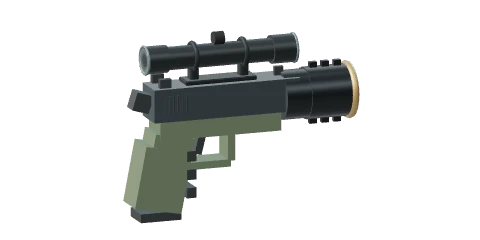
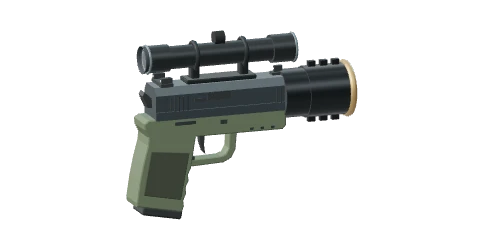
Rebuild the P30 from shaped parts and add a weapon line-up fixture
The pistol was raw boxes. It now has an extruded slide section, one frame
outline with a raked, scalloped grip, an open trigger guard, sights with
dots and a lathe muzzle. Slide bounds, sight heights, sockets and the
magazine node are unchanged. The magazine containment test checks against
the frame outline now that the separate grip box is gone. Armory
thumbnails regenerated.

Changed region(s): [[0.25, 0.1167, 0.75, 0.9333], [0.4375, 0.1167, 0.5625, 0.175]]

diff --git a/src/game/service-weapon-models.ts b/src/game/service-weapon-models.ts
@@ -1,8 +1,11 @@
 import * as THREE from 'three';
+import { RoundedBoxGeometry } from 'three/addons/geometries/RoundedBoxGeometry.js';
+import { mergeStaticParts } from './weapon-part-merge';
 import { buildMachineGun } from './machine-gun-models';
 import { buildProxyWeapon } from './proxy-weapon-models';
 import { buildEnemyWeapon } from './enemy-weapon-models';
 
+type Pt = readonly [number, number];
 /** Authored low-poly silhouettes, not dimensional replicas. Local -Z is forward. */
 export function buildServiceWeapon(id: string): THREE.Group | undefined {
   if (id === 'ff-oicw-launcher') return buildProxyWeapon('ff-oicw', true, 'launcher').root;
@@ -12,39 +15,76 @@ export function buildServiceWeapon(id: string): THREE.Group | undefined {
   const enemy = buildEnemyWeapon(id); if (enemy) return enemy;
   if (id !== 'p30-inspired') return undefined;
   const root = new THREE.Group(); root.name = id;
+  // Material names matter: armory-visuals paints skins onto "Polymer".
   const steel = new THREE.MeshStandardMaterial({ color: '#343d41', roughness: .48, metalness: .65 });
   const polymer = new THREE.MeshStandardMaterial({ color: '#394334', roughness: .85 });
   const dark = new THREE.MeshStandardMaterial({ color: '#141a1c', roughness: .75 });
-  steel.name = 'Metal anodised'; polymer.name = 'Polymer'; dark.name = 'Dark metal';
-  const box = (name: string, w: number, h: number, d: number, x: number, y: number, z: number, material = steel) => {
-    const mesh = new THREE.Mesh(new THREE.BoxGeometry(w, h, d), material);
-    mesh.name = `${id}__${name}`; mesh.position.set(x, y, z); root.add(mesh); return mesh;
+  const texture = new THREE.MeshStandardMaterial({ color: '#232a21', roughness: .96 });
+  const dot = new THREE.MeshStandardMaterial({ color: '#e9ece4', roughness: .6, emissive: '#e9ece4', emissiveIntensity: .35 });
+  steel.name = 'Metal anodised'; polymer.name = 'Polymer'; dark.name = 'Dark metal'; texture.name = 'Grip texture'; dot.name = 'Sight dot';
+  const mesh = (name: string, geometry: THREE.BufferGeometry, material: THREE.Material, x: number, y: number, z: number, parent: THREE.Object3D = root) => {
+    const part = new THREE.Mesh(geometry, material); part.name = `${id}__${name}`; part.position.set(x, y, z); parent.add(part); return part;
   };
-  const barrel = (name: string, radius: number, length: number, y: number, z: number) => {
-    const mesh = new THREE.Mesh(new THREE.CylinderGeometry(radius, radius, length, 12), steel);
-    mesh.rotation.x = Math.PI / 2; mesh.position.set(0, y, z); mesh.name = `${id}__${name}`; root.add(mesh);
+  const box = (name: string, w: number, h: number, d: number, x: number, y: number, z: number, material: THREE.Material = steel, parent: THREE.Object3D = root) =>
+    mesh(name, new RoundedBoxGeometry(w, h, d, 1, Math.min(.0015, w / 5, h / 5, d / 5)), material, x, y, z, parent);
+  /**
+   * A side profile, given as [z, y] points, extruded across the gun with rounded edges that
+   * stand half of `round` outside the points. A hole is a real opening. (A negative
+   * bevelOffset would hold the outline to the points, but ExtrudeGeometry then caps over holes.)
+   */
+  const side = (name: string, points: readonly Pt[], width: number, material: THREE.Material, hole?: readonly Pt[], round = Math.min(.004, width / 6)) => {
+    const shape = new THREE.Shape(points.map(([z, y]) => new THREE.Vector2(z, y))); shape.closePath();
+    if (hole) { const path = new THREE.Path(hole.map(([z, y]) => new THREE.Vector2(z, y))); path.closePath(); shape.holes.push(path); }
+    const depth = width - round * 2;
+    const geometry = new THREE.ExtrudeGeometry(shape, { depth, bevelEnabled: true, bevelSize: round * .5, bevelThickness: round, bevelSegments: 2, steps: 1 });
+    geometry.rotateY(-Math.PI / 2); geometry.translate(depth / 2, 0, 0);
+    // Extrusions are mapped in metres; a skin's pattern is drawn for a part-sized square.
+    const uv = geometry.attributes.uv; for (let i = 0; i < uv.count; i++) uv.setXY(i, uv.getX(i) * 5, uv.getY(i) * 5);
+    return mesh(name, geometry, material, 0, 0, 0);
   };
   const socket = (name: string, x: number, y: number, z: number) => {
     const node = new THREE.Object3D(); node.name = `${id}__socket_${name}`; node.position.set(x, y, z); root.add(node);
   };
-  if (id === 'p30-inspired') {
-    box('slide', .047, .045, .205, 0, .202, -.015);
-    box('frame', .045, .027, .17, 0, .168, -.006, polymer);
-    box('grip', .044, .103, .056, 0, .108, .067, polymer).rotation.x = -.19;
-    box('hammer', .021, .025, .024, 0, .205, .099, dark).rotation.x = -.3;
-    box('backstrap', .047, .085, .018, 0, .105, .098, polymer).rotation.x = -.19;
-    for (let i = 0; i < 3; i++) box('grip-groove', .046, .014, .013, 0, .08 + i * .025, .035, dark);
-    // Base plate and a steel body hidden up the grip, on the grip's rake, so what leaves the well is a whole magazine.
-    const magazine = box('magazine', .041, .012, .057, 0, .05, .077, dark); magazine.rotation.x = -.19;
-    const magazineBody = box('magazine-body', .03, .104, .044, 0, .058, 0); magazine.add(magazineBody);
-    box('guard-bottom', .035, .01, .064, 0, .115, .01, polymer);
-    box('guard-front', .035, .038, .01, 0, .137, -.023, polymer);
-    box('trigger', .012, .026, .01, 0, .14, .017, dark).rotation.x = -.25;
-    for (const x of [-.015, .015]) box('rear-sight', .008, .012, .016, x, .231, .07, dark);
-    box('front-sight', .006, .012, .012, 0, .231, -.095, dark);
-    for (let i = 0; i < 6; i++) box('slide-serration', .049, .024, .002, 0, .203, .042 + i * .006, dark);
-    barrel('muzzle', .012, .012, .197, -.123);
-    socket('muzzle', 0, .197, -.13); socket('eject', .03, .214, -.007);
+  // The slide, its serrations and both sights travel together when it is racked;
+  // the hand clasps the slide by its bounds, so its width and top stay where they are.
+  const section = new THREE.Shape([[-.0235, -.0225], [.0235, -.0225], [.0235, -.011], [.0231, -.0105], [.0231, .012], [.0165, .0225], [-.0165, .0225], [-.0231, .012], [-.0231, -.0105], [-.0235, -.011]].map(([x, y]) => new THREE.Vector2(x, y)));
+  const slideGeometry = new THREE.ExtrudeGeometry(section, { depth: .205, bevelEnabled: false, steps: 1 }); slideGeometry.translate(0, 0, -.1025);
+  const slide = mesh('slide', slideGeometry, steel, 0, .202, -.015);
+  box('ejection-port', .0006, .0105, .034, .0232, .0062, .012, dark, slide);
+  box('extractor', .0005, .004, .016, .02325, .002, .039, dark, slide);
+  for (let i = 0; i < 6; i++) box('slide-serration', .0472, .02, .002, 0, .201, .042 + i * .006, dark);
+  for (let i = 0; i < 4; i++) box('slide-serration', .0472, .02, .002, 0, .201, -.086 - i * .006, dark);
+  box('rear-sight', .04, .005, .018, 0, .227, .07, dark);
+  for (const x of [-.015, .015]) {
+    const post = box('rear-sight', .008, .012, .016, x, .231, .07, dark);
+    mesh('sight-dot', new THREE.CircleGeometry(.0018, 10), dot, 0, .002, .0081, post);
   }
+  box('front-sight', .012, .004, .02, 0, .2265, -.095, dark);
+  mesh('sight-dot', new THREE.CircleGeometry(.0018, 10), dot, 0, .002, .0061, box('front-sight', .006, .012, .012, 0, .231, -.095, dark));
+  // Annular muzzle with a recessed bore, standing just proud of the slide's face.
+  const muzzle = mesh('muzzle', new THREE.LatheGeometry([[.0055, -.007], [.011, -.007], [.012, -.006], [.012, .007], [.0055, .007], [.0055, -.007]].map(([r, v]) => new THREE.Vector2(r, v)), 20), steel, 0, .197, -.1225);
+  muzzle.rotation.x = Math.PI / 2;
+  mesh('bore', new THREE.CircleGeometry(.0055, 16), dark, 0, .197, -.119).rotation.y = Math.PI;
+
+  // One outline for frame, dust cover, beavertail and raked grip, with finger
+  // scallops down the front strap and a palm swell behind.
+  const strap = (y: number) => .030 + (.153 - y) * .193;
+  side('frame', [[-.098, .1795], [.097, .1795], [.102, .176], [.1015, .169], [.096, .158], [.097, .146], [.1035, .122], [.1085, .098], [.113, .068], [.1125, .0635],
+    [.0505, .0515], [strap(.058), .058], [strap(.066) + .0025, .066], [strap(.075), .075], [strap(.084) + .0025, .084], [strap(.093), .093], [strap(.101) + .0025, .101], [strap(.110), .110],
+    [.031, .1545], [-.094, .1545], [-.098, .1585]], .044, polymer);
+  side('grip-panel', [[.052, .068], [.104, .078], [.093, .137], [.040, .131]], .0452, texture);
+  side('trigger-guard', [[-.030, .156], [-.032, .150], [-.030, .128], [-.024, .117], [-.014, .112], [.030, .110], [.040, .113], [.040, .156]], .02, polymer,
+    [[-.024, .152], [-.023, .130], [-.018, .121], [-.010, .118], [.028, .117], [.034, .120], [.030, .152]]);
+  side('trigger', [[.012, .153], [.019, .153], [.0175, .140], [.0135, .128], [.0105, .124], [.0125, .136], [.0115, .146]], .009, dark, undefined, .001);
+  side('hammer', [[.088, .195], [.094, .196], [.101, .212], [.0985, .2165], [.094, .213], [.089, .208]], .016, dark, undefined, .0015);
+  box('slide-release', .0465, .005, .03, 0, .1735, .045, dark);
+  box('takedown-lever', .0465, .006, .01, 0, .171, -.01, dark);
+  box('magazine-release', .026, .005, .012, 0, .121, .034, dark);
+  for (const z of [-.05, -.065, -.08]) box('rail-slot', .0455, .004, .005, 0, .1575, z, dark);
+  // Base plate and a steel body hidden up the grip, on the grip's rake, so what leaves the well is a whole magazine.
+  const magazine = mesh('magazine', new RoundedBoxGeometry(.041, .012, .057, 2, .003), dark, 0, .05, .077); magazine.rotation.x = -.19;
+  mesh('magazine-body', new THREE.BoxGeometry(.03, .104, .044), steel, 0, .058, 0, magazine);
+  mergeStaticParts(root);
+  socket('muzzle', 0, .197, -.13); socket('eject', .03, .214, -.007);
   return root;
 }

diff --git a/scripts/fixtures/weapon-lineup.html b/scripts/fixtures/weapon-lineup.html
@@ -1,0 +1,46 @@
+<!doctype html><html><head><meta charset="utf-8"><title>Weapon line-up</title><style>
+body{margin:0;background:#8a959b;color:#10161a;font:13px system-ui}canvas{display:block}.labels{position:absolute;top:0;left:0;width:100vw;height:75vw;pointer-events:none;display:grid;grid-template-columns:repeat(var(--cols),1fr);grid-template-rows:repeat(var(--rows),1fr)}.labels span{align-self:start;padding:8px 12px;font-weight:600}.labels em{display:block;font-style:normal;font-weight:400}
+</style></head><body><div class="labels" id="labels"></div><script type="module">
+// Every playable platform, dressed as issued, for model review.
+// ?page=N (four platforms a page) · ?only=<index> for one platform at six angles, &view=0..7 for one of them large · ?flat=1 for a grey clay pass.
+import * as THREE from '/node_modules/three/build/three.module.js';
+import { GLTFLoader } from '/node_modules/three/examples/jsm/loaders/GLTFLoader.js';
+import { buildServiceWeapon } from '/src/game/service-weapon-models.ts';
+import { dressWeapon } from '/src/game/armory-visuals.ts';
+import { createProfile, resolveLoadout } from '/src/game/armory-state.ts';
+import { FPS_WEAPONS } from '/src/game/fps-rules.ts';
+const query = new URLSearchParams(location.search), only = query.get('only'), page = Number(query.get('page') ?? 0), flat = query.has('flat');
+const loadout = resolveLoadout(createProfile()), loader = new GLTFLoader();
+const indices = only !== null ? [Number(only)] : FPS_WEAPONS.map((_, i) => i).slice(page * 4, page * 4 + 4);
+const single = query.get('view'), all = [[0, .12], [Math.PI, .12], [-.75, .3], [-2.35, .3], [-Math.PI / 2, .1], [0, 1.45], [2.2, .25], [1.57, .12]];
+const views = single !== null ? [all[Number(single)]] : only !== null ? all.slice(0, 6) : [[0, .12], [-.8, .3]];
+const cols = single !== null ? 1 : 2, rows = single !== null ? 1 : only !== null ? 3 : indices.length;
+const renderer = new THREE.WebGLRenderer({ antialias: true, preserveDrawingBuffer: true }); const W = Number(query.get('w') ?? 1600), H = Number(query.get('h') ?? 1200); renderer.setSize(W, H, false); renderer.setPixelRatio(1); renderer.domElement.style.cssText = 'width:100vw;height:75vw';
+renderer.setClearColor('#8a959b'); renderer.outputColorSpace = THREE.SRGBColorSpace; document.body.append(renderer.domElement);
+const w = W / cols, h = H / rows, cells = [], stats = [];
+const clay = new THREE.MeshStandardMaterial({ color: '#b9bbb8', roughness: .7 });
+for (const index of indices) {
+  const spec = FPS_WEAPONS[index];
+  const model = index < 2 ? (await loader.loadAsync(`/models/field-kit/${spec.id}.glb`)).scene : buildServiceWeapon(spec.id);
+  if (!model) continue;
+  if (loadout.weapons[index]) dressWeapon(model, loadout.weapons[index]);
+  let meshes = 0, triangles = 0; const materials = new Set(), geometries = new Set();
+  model.traverse(o => { if (o.isMesh && o.visible) { meshes++; geometries.add(o.geometry); (Array.isArray(o.material) ? o.material : [o.material]).forEach(m => materials.add(m)); triangles += (o.geometry.index ? o.geometry.index.count : o.geometry.attributes.position.count) / 3; if (flat) o.material = clay; } });
+  const scene = new THREE.Scene(); scene.add(model, new THREE.HemisphereLight('#e8f2ff', '#5b6150', 2.2));
+  const key = new THREE.DirectionalLight('#fff3e0', 3); key.position.set(2, 3, 1.5); scene.add(key);
+  const rim = new THREE.DirectionalLight('#a9c4e8', 1.6); rim.position.set(-2, 1, -2); scene.add(rim);
+  const bounds = new THREE.Box3().setFromObject(model), centre = bounds.getCenter(new THREE.Vector3()), size = bounds.getSize(new THREE.Vector3());
+  const stat = { index, id: spec.id, name: spec.name, meshes, triangles: Math.round(triangles), materials: materials.size, geometries: geometries.size, length: +size.z.toFixed(3), height: +size.y.toFixed(3), width: +size.x.toFixed(3) };
+  stats.push(stat);
+  for (const [yaw, pitch] of views) {
+    const camera = new THREE.PerspectiveCamera(24, w / h, .01, 20), far = Math.max(size.z, size.y * 1.6) * 1.25 / (2 * Math.tan(12 * Math.PI / 180)) / Math.min(1, w / h / 1.2) * (single !== null ? .42 : only !== null ? .62 : .5) + .2;
+    camera.position.set(centre.x + Math.cos(yaw) * Math.cos(pitch) * far, centre.y + Math.sin(pitch) * far, centre.z + Math.sin(yaw) * Math.cos(pitch) * far); camera.lookAt(centre);
+    cells.push({ scene, camera });
+    document.getElementById('labels').insertAdjacentHTML('beforeend', `<span>${index} · ${spec.name}<em>${meshes} meshes · ${stat.triangles} tris · ${materials.size} mats · ${stat.length} m</em></span>`);
+  }
+}
+document.body.style.setProperty('--cols', cols); document.body.style.setProperty('--rows', rows);
+renderer.setScissorTest(true);
+const draw = () => { cells.forEach(({ scene, camera }, i) => { const x = (i % cols) * w, y = (rows - 1 - Math.floor(i / cols)) * h; renderer.setViewport(x, y, w, h); renderer.setScissor(x, y, w, h); renderer.render(scene, camera); }); requestAnimationFrame(draw); };
+draw(); window.stats = stats; window.ready = true;
+</script></body></html>

diff --git a/src/game/fps-pistol-reload.test.ts b/src/game/fps-pistol-reload.test.ts
@@ -149,15 +149,18 @@ describe('flicking the spent magazine out one-handed', () => {
   it('throws a whole magazine, hidden inside the grip while seated', () => {
     const f = viewed(); f.at(0);
     expect(new THREE.Box3().setFromObject(f.magazine).getSize(new THREE.Vector3()).y).toBeGreaterThan(.1);
-    const body = f.model.getObjectByName(`${spec.id}__magazine-body`) as THREE.Mesh, grip = f.model.getObjectByName(`${spec.id}__grip`)!;
+    // Seen from the side, every corner of the body is behind the frame's outline or the base plate.
+    const body = f.model.getObjectByName(`${spec.id}__magazine-body`) as THREE.Mesh, frame = f.model.getObjectByName(`${spec.id}__frame`) as THREE.Mesh;
     f.model.updateMatrixWorld(true);
-    const intoGrip = grip.matrixWorld.clone().invert();
-    body.geometry.computeBoundingBox();
-    const { min, max } = body.geometry.boundingBox!;
-    for (const x of [min.x, max.x]) for (const y of [min.y, max.y]) for (const z of [min.z, max.z]) {
-      const corner = new THREE.Vector3(x, y, z).applyMatrix4(body.matrixWorld).applyMatrix4(intoGrip);
-      expect(Math.abs(corner.x)).toBeLessThan(.022);
-      expect(Math.abs(corner.z)).toBeLessThan(.028);
+    const intoModel = f.model.matrixWorld.clone().invert(), toWorld = new THREE.Matrix3().setFromMatrix4(f.model.matrixWorld);
+    frame.geometry.computeBoundingBox(); body.geometry.computeBoundingBox();
+    const half = frame.geometry.boundingBox!.max.x, { min, max } = body.geometry.boundingBox!, inset = .0005, ray = new THREE.Raycaster();
+    for (const x of [min.x, max.x]) for (const y of [min.y + inset, max.y - inset]) for (const z of [min.z + inset, max.z - inset]) {
+      const corner = new THREE.Vector3(x, y, z).applyMatrix4(body.matrixWorld);
+      expect(Math.abs(corner.clone().applyMatrix4(intoModel).x)).toBeLessThan(half);
+      const across = new THREE.Vector3(-1, 0, 0).applyMatrix3(toWorld).normalize();
+      ray.set(corner.clone().addScaledVector(across, -1), across);
+      expect(ray.intersectObjects([frame, f.magazine], false).length, `corner ${x},${y},${z}`).toBeGreaterThan(0);
     }
     f.done();
   });
